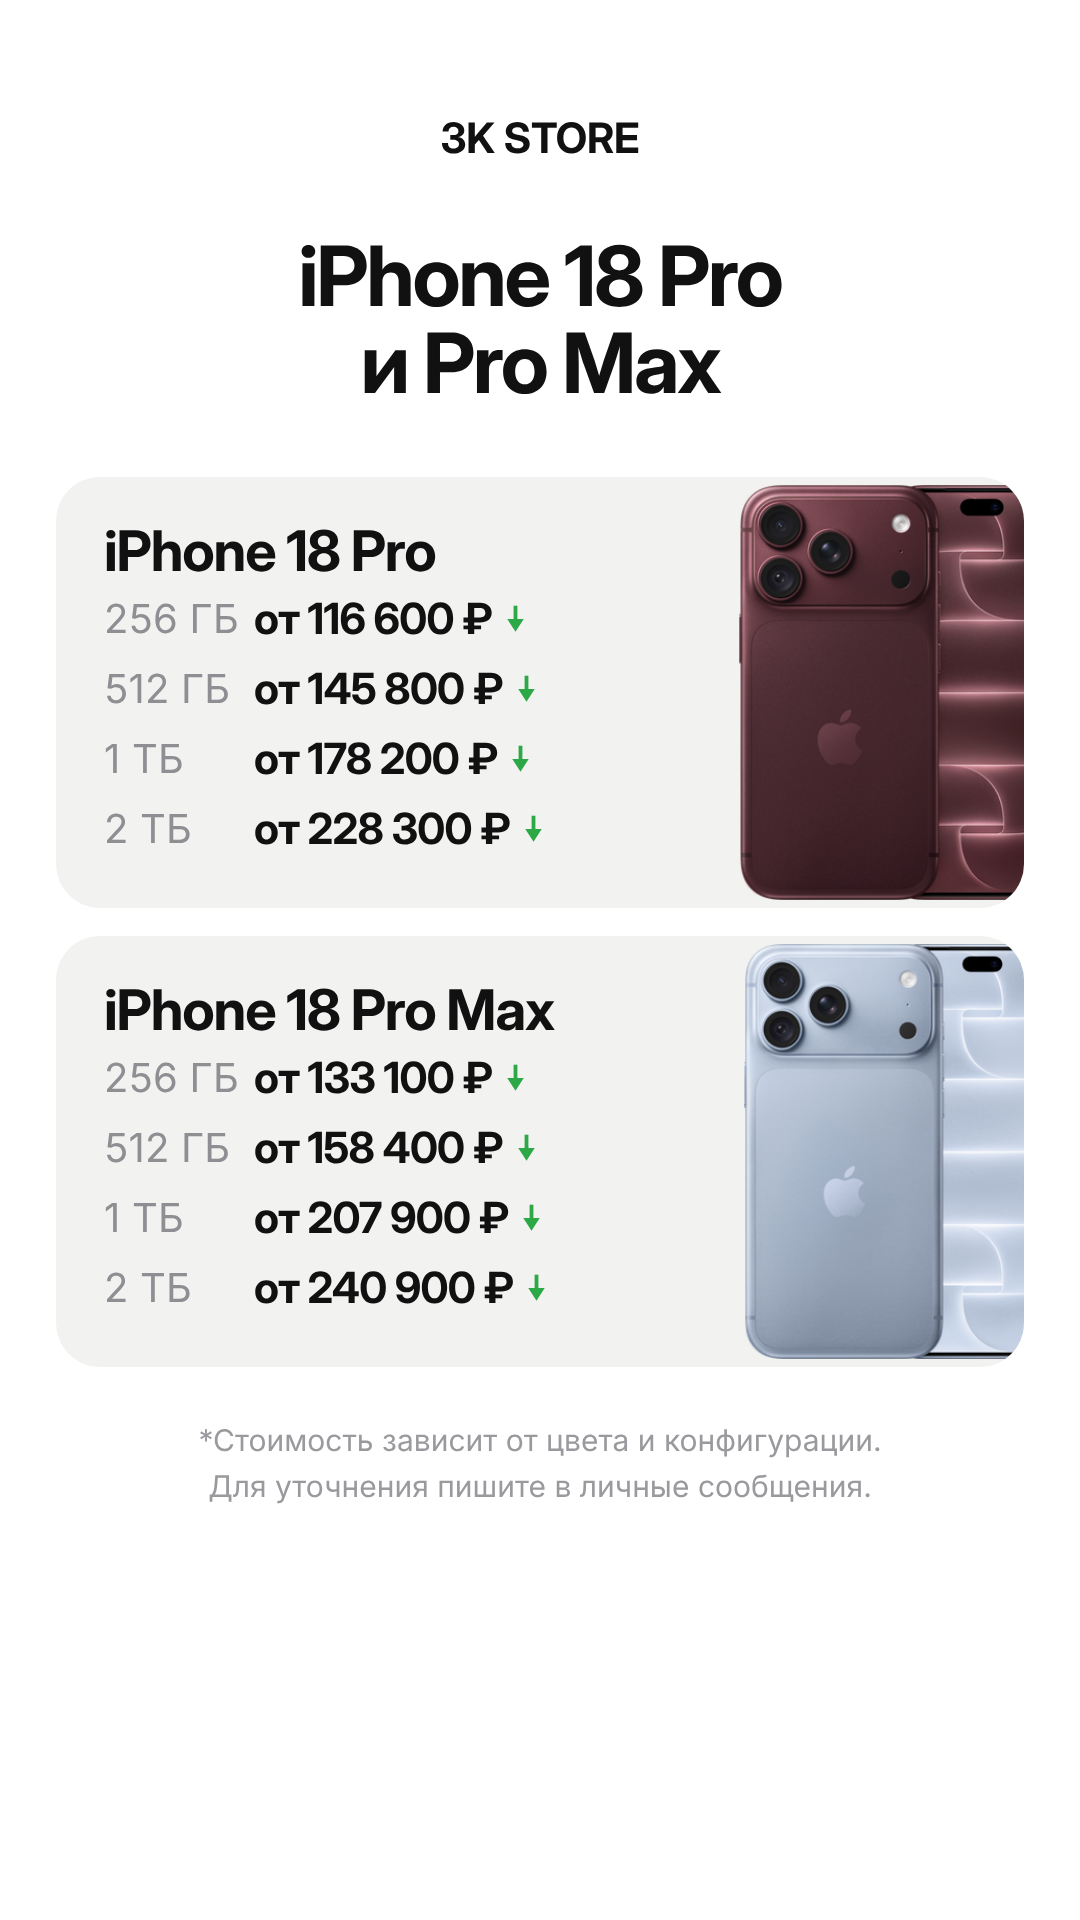
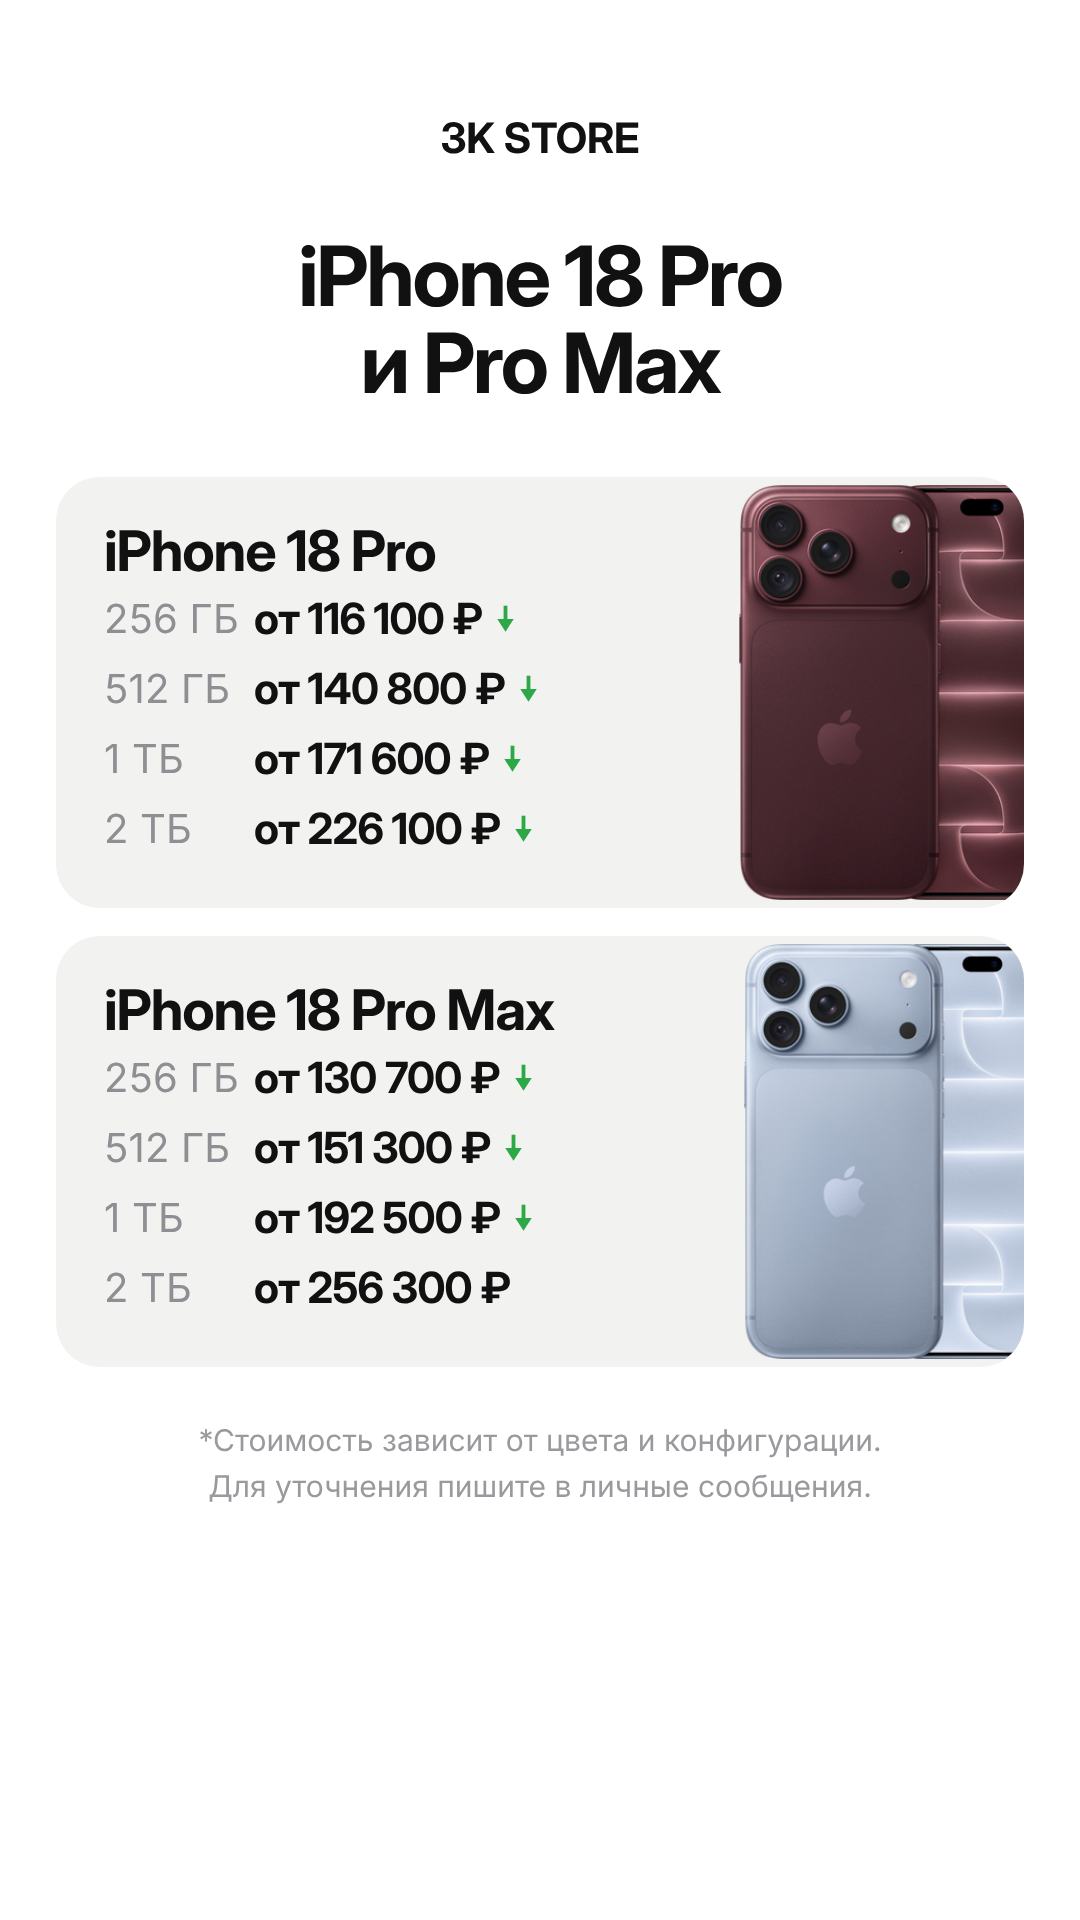
Прайс iPhone 18 Pro на 17.11 и новый прайс iPhone Duo
Claude-Session: https://claude.ai/code/session_014zc7qX9TFUN7T7gG8PEUD3

Changed region(s): [[0.275, 0.5312, 0.4889, 0.6875], [0.3056, 0.3125, 0.4889, 0.4375]]

diff --git a/price/iphone-18-pro.js b/price/iphone-18-pro.js
@@ -2,20 +2,20 @@
 // Стрелка вниз ставится сама, если price < prev.
 window.PRICE = {
   title: 'iPhone 18 Pro\nи Pro Max',
-  date: '24.10.2026',
+  date: '17.11.2026',
   size: 'large',
   models: [
     { name: 'iPhone 18 Pro', phone: 'iphone-18-pro', rows: [
-      { mem: '256 ГБ', price: 116600, prev: 119900 },
-      { mem: '512 ГБ', price: 145800, prev: 148500 },
-      { mem: '1 ТБ', price: 178200, prev: 185900 },
-      { mem: '2 ТБ', price: 228300, prev: 233800 },
+      { mem: '256 ГБ', price: 116100, prev: 116600 },
+      { mem: '512 ГБ', price: 140800, prev: 145800 },
+      { mem: '1 ТБ', price: 171600, prev: 178200 },
+      { mem: '2 ТБ', price: 226100, prev: 228300 },
     ]},
     { name: 'iPhone 18 Pro Max', phone: 'iphone-18-pro-max', rows: [
-      { mem: '256 ГБ', price: 133100, prev: 137000 },
-      { mem: '512 ГБ', price: 158400, prev: 161700 },
-      { mem: '1 ТБ', price: 207900, prev: 210100 },
-      { mem: '2 ТБ', price: 240900, prev: 245300 },
+      { mem: '256 ГБ', price: 130700, prev: 133100 },
+      { mem: '512 ГБ', price: 151300, prev: 158400 },
+      { mem: '1 ТБ', price: 192500, prev: 207900 },
+      { mem: '2 ТБ', price: 256300, prev: 240900 },
     ]},
   ],
 };

diff --git a/price/iphone-duo.js b/price/iphone-duo.js
@@ -1,0 +1,15 @@
+// Прайс iPhone Duo. price — минимальная цена сейчас, prev — в прошлом прайсе.
+// Стрелка вниз ставится сама, если price < prev.
+window.PRICE = {
+  title: 'iPhone Duo',
+  date: '17.11.2026',
+  size: 'large',
+  models: [
+    { name: 'iPhone Duo', rows: [
+      { mem: '256 ГБ', price: 209000 },
+      { mem: '512 ГБ', price: 240800 },
+      { mem: '1 ТБ', price: 318600 },
+      { mem: '2 ТБ', price: 340200 },
+    ]},
+  ],
+};
